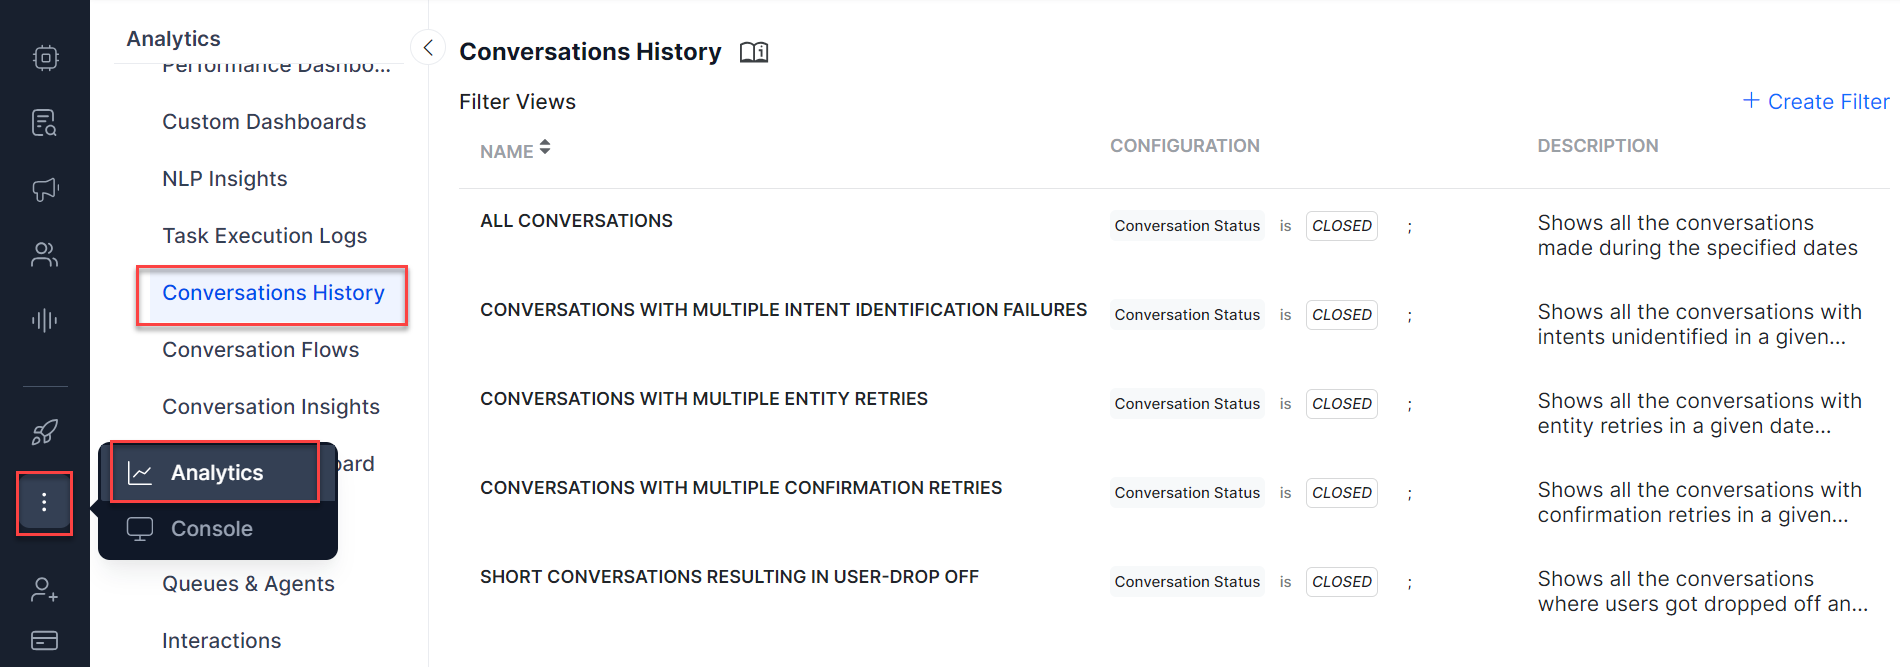
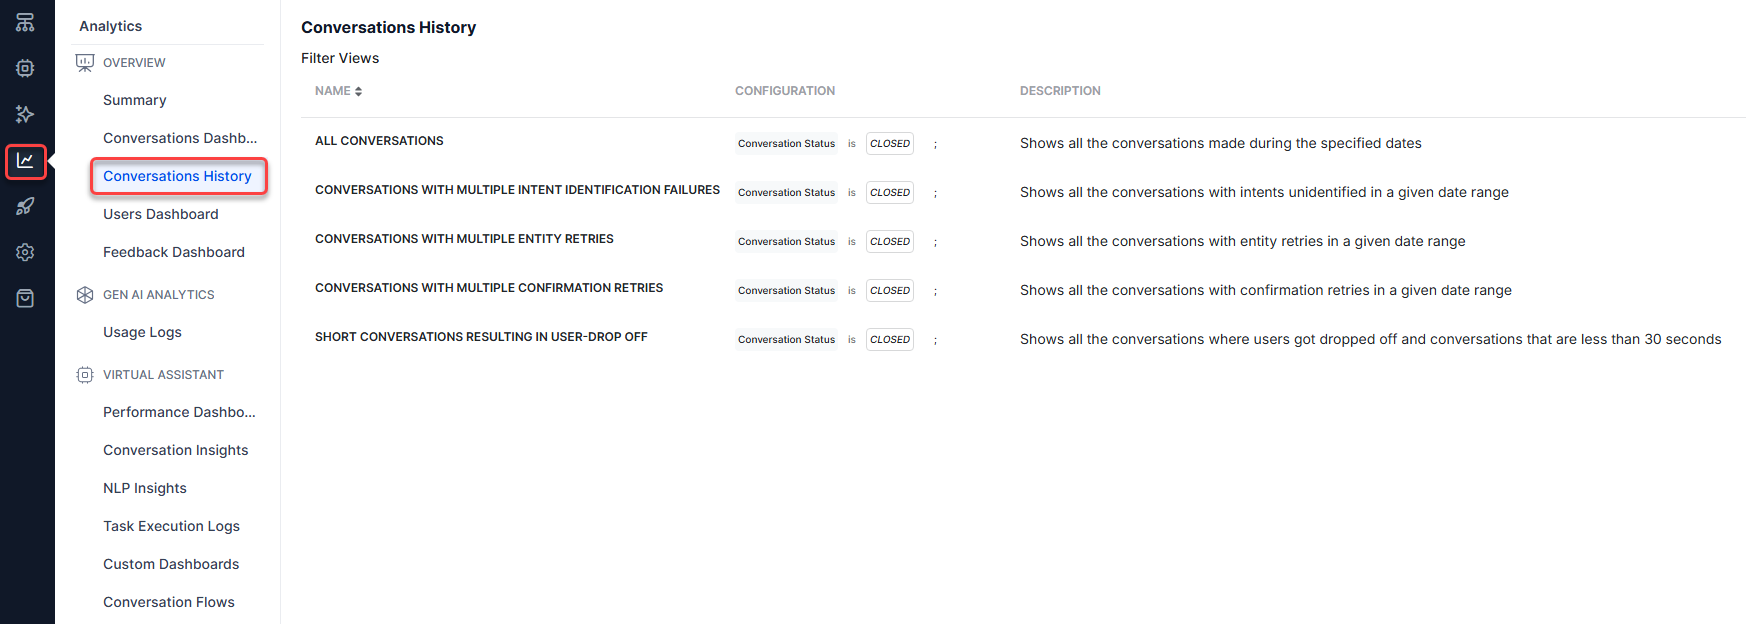
updated TOC

diff --git a/docs/xo/analytics/overview/conversations-history.md b/docs/xo/analytics/overview/conversations-history.md
@@ -4,19 +4,13 @@ The **Conversation History** dashboard allows you to review the transcripts of p
 
 The **Advanced Conversation Analytics** feature provides a more detailed view of the conversation, including events and custom tags, which can help you better understand the interaction between the customer and the virtual assistant. Custom Tags can be reused across conversations for training purposes and for identifying areas where the virtual assistant could improve.
 
-!!! note
-
-    The **Conversations History** Dashboard is available only post the 9.3 release, i.e. post-July 24, 2022.
-
-
 **To view the Conversations History dashboard, follow the steps**: 
 
-1. Click the three dots on the left navigation pane and then click **Analytics**.The **Analytics** panel is displayed with the list of reports.
+1.  Click **Analytics** on the left navigation pane. The Analytics panel is displayed with the list of reports.
 
     <img src="../images/navigating-to-conversations-history-dashboard.png" alt="Navigating to Conversations History Dashboard" title="Navigating to Conversations History Dashboard" style="border: 1px solid gray; zoom:80%;">
 
-
-2. Click the **Conversations History dashboard** under the **Automation** section of the **Analytics** panel. The **Conversations History dashboard** is displayed on the right side of the page.
+2. Click the **Conversations History dashboard** under the **Overview** section of the **Analytics** panel. The **Conversations History dashboard** is displayed on the right side of the page.
 3. Select appropriate filters on the dashboard and click **Apply**.
 
 
@@ -29,7 +23,6 @@ The **Filter Views** page is the preface or landing page displayed when you clic
 * Access the **Conversations History Dashboard** for the selected preset.
 
 <img src="../images/filters-view-page.png" alt="Filters View Page" title="Filters View Page" style="border: 1px solid gray; zoom:80%;">
-
 
 ### Prebuilt Filters for Conversations History
 
